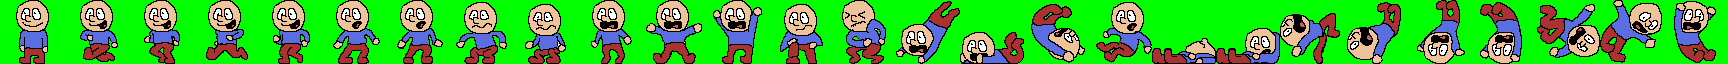
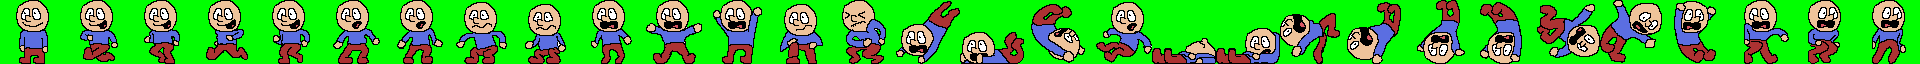
added walljump animations

diff --git a/src/game_sprites/player_one.py b/src/game_sprites/player_one.py
@@ -29,6 +29,9 @@ DEFAULT_SPRITE_CONFIG = {
         "KICKFLIP2:0": ((1536, 0), (64, 64)),
         "KICKFLIP2:4": ((1600, 0), (64, 64)),
         "KICKFLIP2:8": ((1664, 0), (64, 64)),
+        "WALL": ((1728, 0), (64, 64)),
+        "WALLJUMPSTART:0": ((1792, 0), (64, 64)),
+        "WALLJUMPSTART:2": ((1856, 0), (64, 64)),
     }
 }
 

diff --git a/src/game_data_templates/player_state.py b/src/game_data_templates/player_state.py
@@ -25,5 +25,5 @@ PLAYER_STATE_TEMPLATE = {
     const.KICKFLIPSTR: -35,
     const.KICKFLIPLIMIT: -28,
     const.WALLJUMPSTR: 14,
-    const.WALLJUMPFRM:3,
+    const.WALLJUMPFRM: 3,
 }
